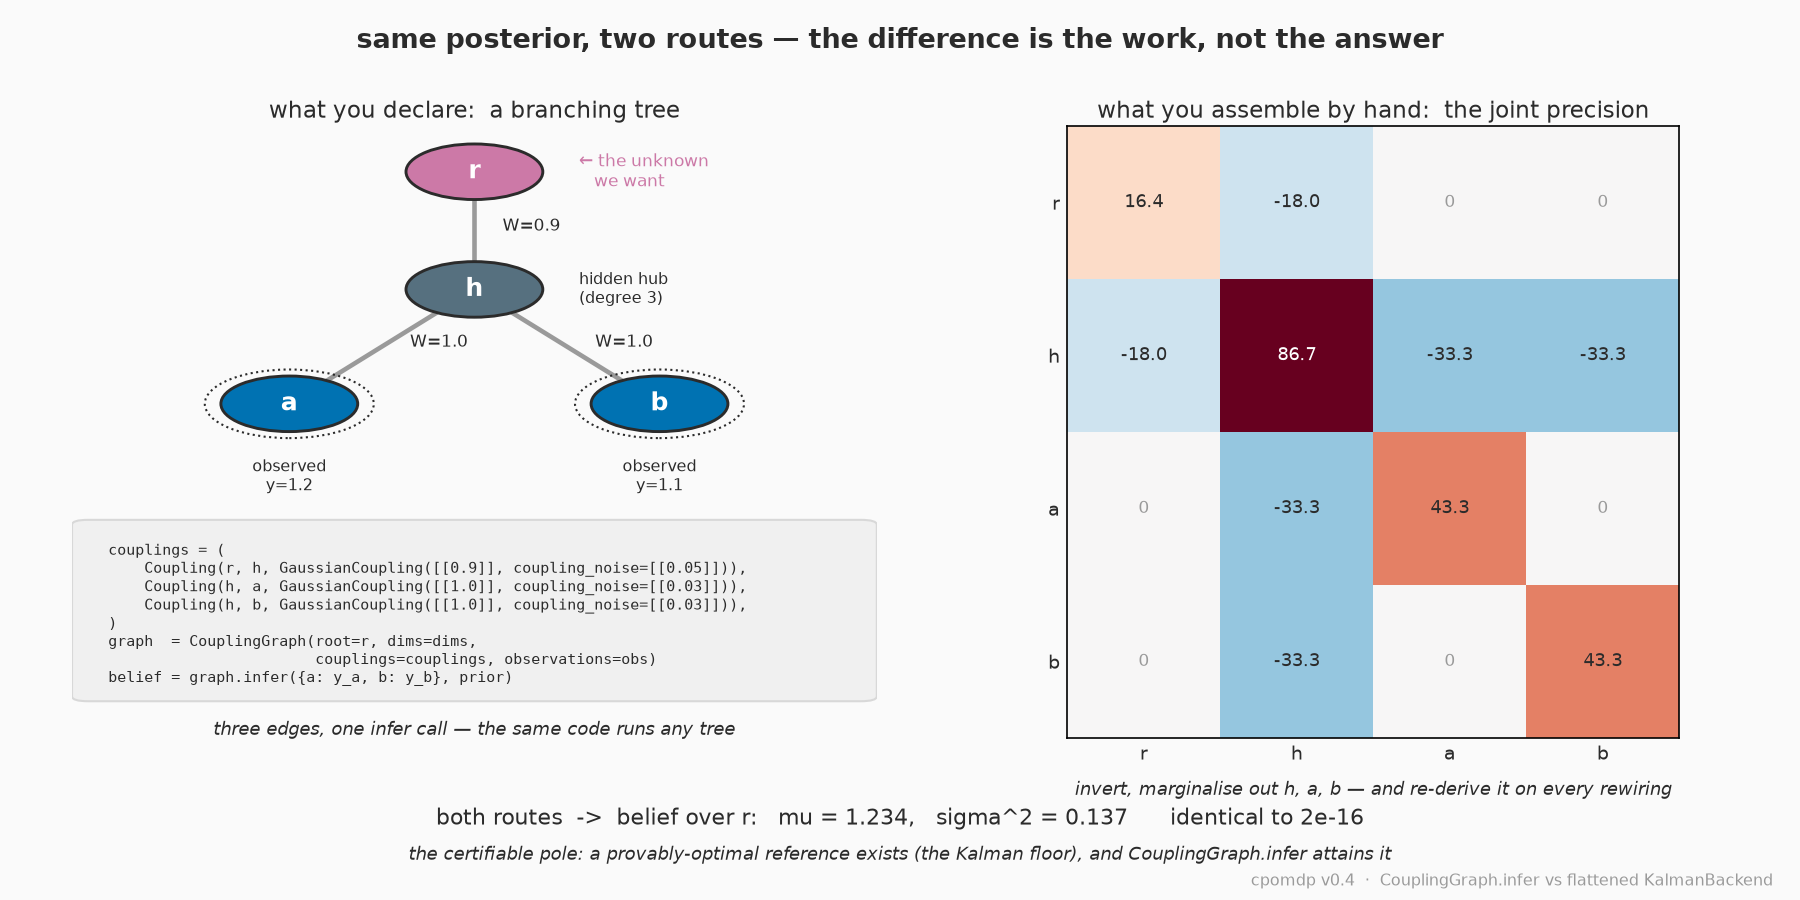
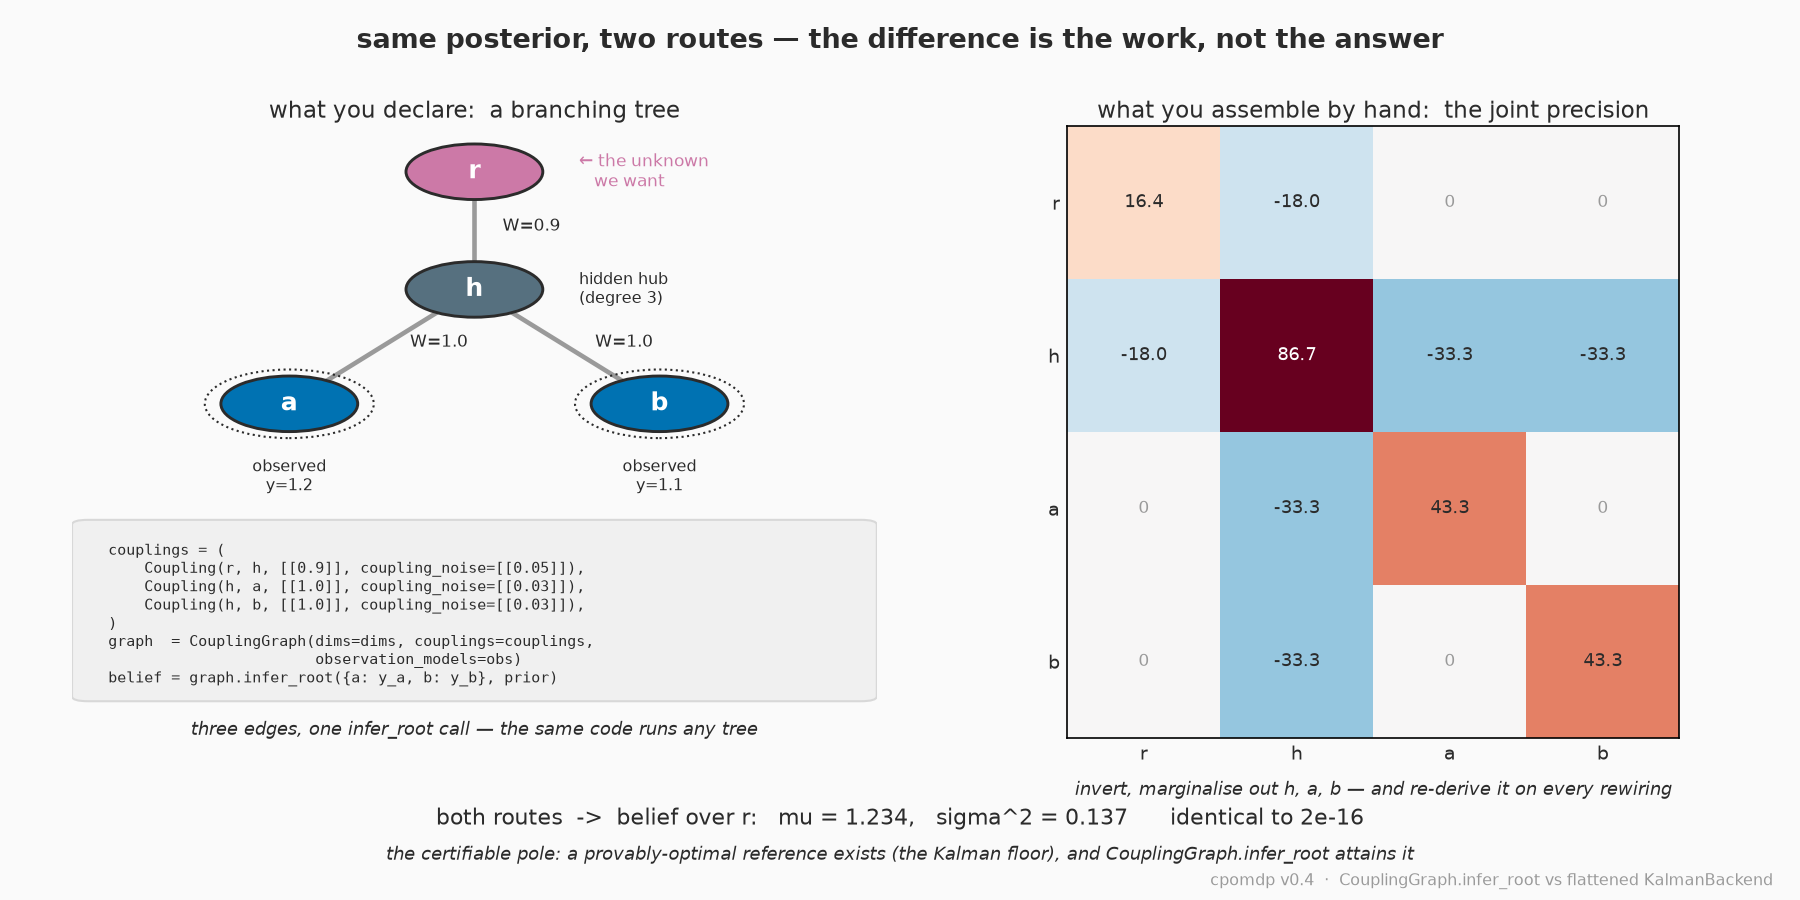
docs: the coupling-graph figure shows infer_root, and the changelog drops the removed root argument

Changed region(s): [[0.1556, 0.6222, 0.4044, 0.7778], [0.2178, 0.9333, 0.84, 0.9956], [0.1244, 0.8089, 0.4044, 0.84]]

diff --git a/examples/ffg/coupling_graph_figure.py b/examples/ffg/coupling_graph_figure.py
@@ -326,7 +326,7 @@ def _draw_code(ax) -> None:
     ax.text(
         0.5,
         0.07,
-        "three edges, one infer call — the same code runs any tree",
+        "three edges, one infer_root call — the same code runs any tree",
         transform=ax.transAxes,
         ha="center",
         va="top",

diff --git a/CHANGELOG.md b/CHANGELOG.md
@@ -410,8 +410,8 @@ certainty equivalence is optimal, and no use of the readings beats it.
   `infer_root`, and a prior over the wrong dimension raised
   `cannot add messages of shape (2, 2) and (1, 1)`.
   `GaussianTransition.from_ou(0.0, ...)` raised `ZeroDivisionError`, and a negative
-  `tau` or `dt` blamed `dynamics_noise`, an argument the caller never passed. A `root`
-  or a dimension of 1.5 was truncated to 1. A `CouplingGraphBackend` over a graph with
+  `tau` or `dt` blamed `dynamics_noise`, an argument the caller never passed. A
+  dimension of 1.5 was truncated to 1. A `CouplingGraphBackend` over a graph with
   no sensor failed in a zero-size reduction and now refuses at construction.
 - The graph EFE rollouts and searches skipped the checks `FfgEfeSelector` makes on its
   target. `policy_efe_ffg`, `policy_efe_ffg_trace`, the crossover statistic and both
